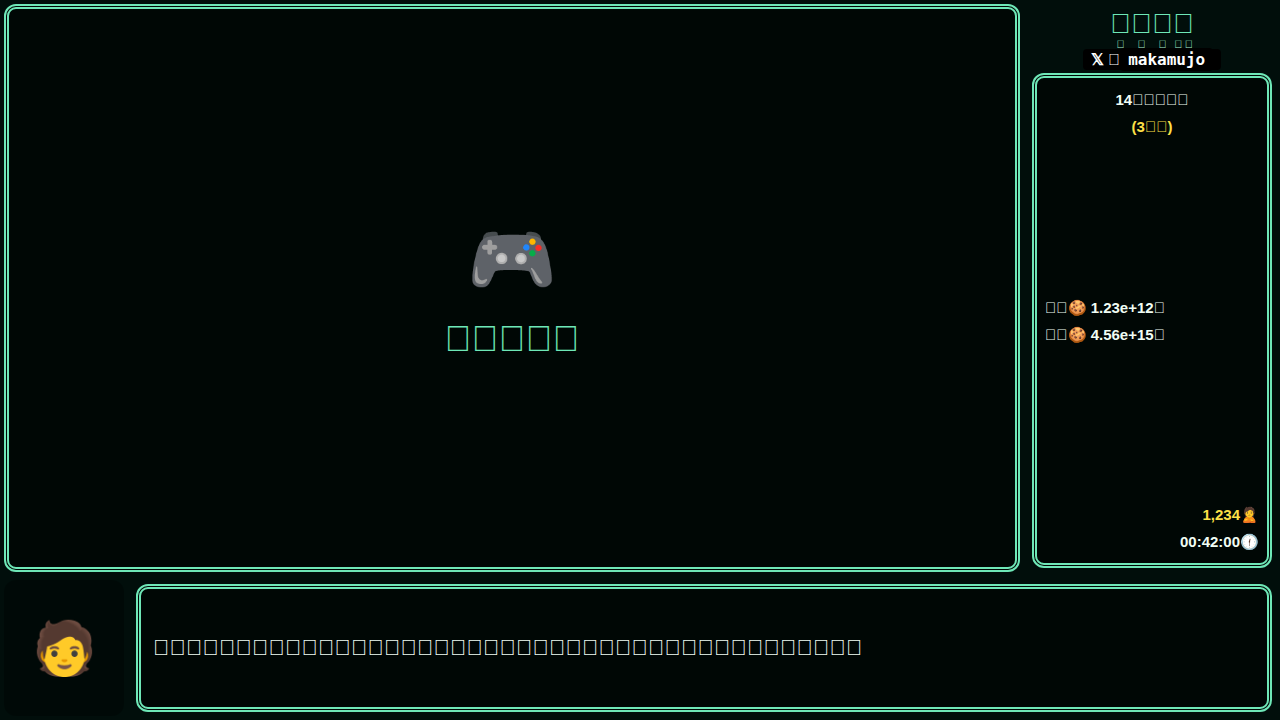
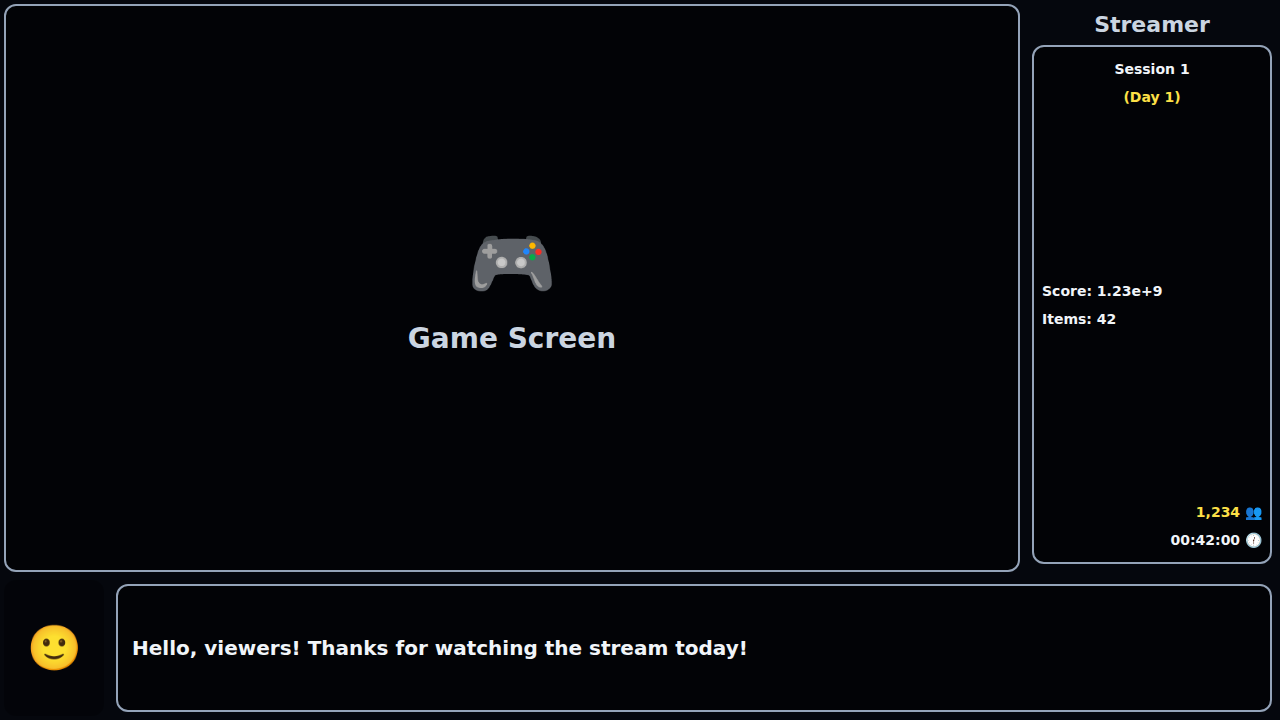
Restructure example into example/ directory with generic content

diff --git a/example/src/App.tsx b/example/src/App.tsx
@@ -1,0 +1,64 @@
+import { Box, Container, Layout } from "automated-gameplay-transmitter";
+
+/**
+ * Example application demonstrating the three-panel stream overlay layout
+ * provided by automated-gameplay-transmitter.
+ *
+ * - Main panel  : game screen area (largest, top-left)
+ * - Side panel  : stream info / stats (narrow, right side)
+ * - Bottom panel: speech / captions (full width, bottom strip)
+ */
+export function App() {
+  return (
+    <Layout count={10} span={8} className="bg-slate-900/30 text-slate-50 font-bold">
+      {/* Main panel — game screen area */}
+      <Container>
+        <Box>
+          <div className="w-full h-full flex flex-col items-center justify-center gap-4">
+            <div className="text-6xl">🎮</div>
+            <div className="text-2xl text-slate-300">Game Screen</div>
+          </div>
+        </Box>
+      </Container>
+
+      {/* Side panel — stream stats */}
+      <Container>
+        <div className="h-full flex flex-col justify-between items-center gap-2">
+          <div className="flex-none text-2xl text-slate-300 text-center pt-2">
+            Streamer
+          </div>
+          <div className="flex-auto w-full">
+            <div className="h-full flex flex-col justify-between p-2 bg-black/50 border-2 border-slate-400 rounded-xl text-lg/8">
+              <div className="text-center">
+                <div>Session 1</div>
+                <div className="text-yellow-300">(Day 1)</div>
+              </div>
+              <div>
+                <div>Score: 1.23e+9</div>
+                <div>Items: 42</div>
+              </div>
+              <div className="text-right">
+                <div className="text-yellow-300">1,234 👥</div>
+                <div>00:42:00 🕧</div>
+              </div>
+            </div>
+          </div>
+        </div>
+      </Container>
+
+      {/* Bottom panel — speech / captions */}
+      <Container>
+        <div className="flex gap-2 h-full">
+          <div className="flex-none w-32 max-h-full aspect-square flex items-center justify-center bg-black/30 rounded-xl text-5xl">
+            🙂
+          </div>
+          <div className="flex-auto h-full p-1">
+            <div className="h-full flex items-center p-3 bg-black/50 border-2 border-slate-400 rounded-xl overflow-hidden text-xl/9">
+              Hello, viewers! Thanks for watching the stream today!
+            </div>
+          </div>
+        </div>
+      </Container>
+    </Layout>
+  );
+}

diff --git a/example/src/main.tsx b/example/src/main.tsx
@@ -1,13 +1,13 @@
 import { StrictMode } from "react";
 import { createRoot } from "react-dom/client";
-import { LayoutExample } from "./components/LayoutExample";
+import { App } from "./App";
 import "./index.css";
 
 function start() {
   const root = createRoot(document.getElementById("root")!);
   root.render(
     <StrictMode>
-      <LayoutExample />
+      <App />
     </StrictMode>
   );
 }

diff --git a/example/index.html b/example/index.html
@@ -1,5 +1,5 @@
 <!doctype html>
-<html lang="ja">
+<html lang="en">
   <head>
     <meta charset="UTF-8" />
     <meta name="viewport" content="width=device-width, initial-scale=1.0" />
@@ -7,6 +7,6 @@
   </head>
   <body>
     <div id="root"></div>
-    <script type="module" src="./example.tsx"></script>
+    <script type="module" src="./src/main.tsx"></script>
   </body>
 </html>

diff --git a/example/src/index.css b/example/src/index.css
@@ -1,0 +1,11 @@
+@import "tailwindcss";
+
+@layer base {
+  :root {
+    @apply bg-black font-sans w-screen h-screen;
+  }
+
+  body {
+    @apply grid justify-items-center items-center w-full h-full;
+  }
+}

diff --git a/example/README.md b/example/README.md
@@ -1,0 +1,28 @@
+# Layout Example
+
+This example demonstrates the three-panel stream overlay layout provided by
+[automated-gameplay-transmitter](https://github.com/nahcnuj/automated-gameplay-transmitter).
+
+## Layout
+
+| Panel | Grid area | Description |
+|-------|-----------|-------------|
+| Main | `col-span-8 / row-span-8` | Game screen area (largest, top-left) |
+| Side | `col-span-2 / row-span-8` | Stream info and stats (narrow, right side) |
+| Bottom | `col-span-10 / row-span-2` | Speech / captions (full width, bottom strip) |
+
+## Requirements
+
+- [Bun](https://bun.sh) ≥ 1.1
+
+## Getting Started
+
+```sh
+# Install dependencies (from the example directory)
+bun install
+
+# Start the development server
+bun dev
+```
+
+Then open [http://localhost:3000](http://localhost:3000) in your browser.
